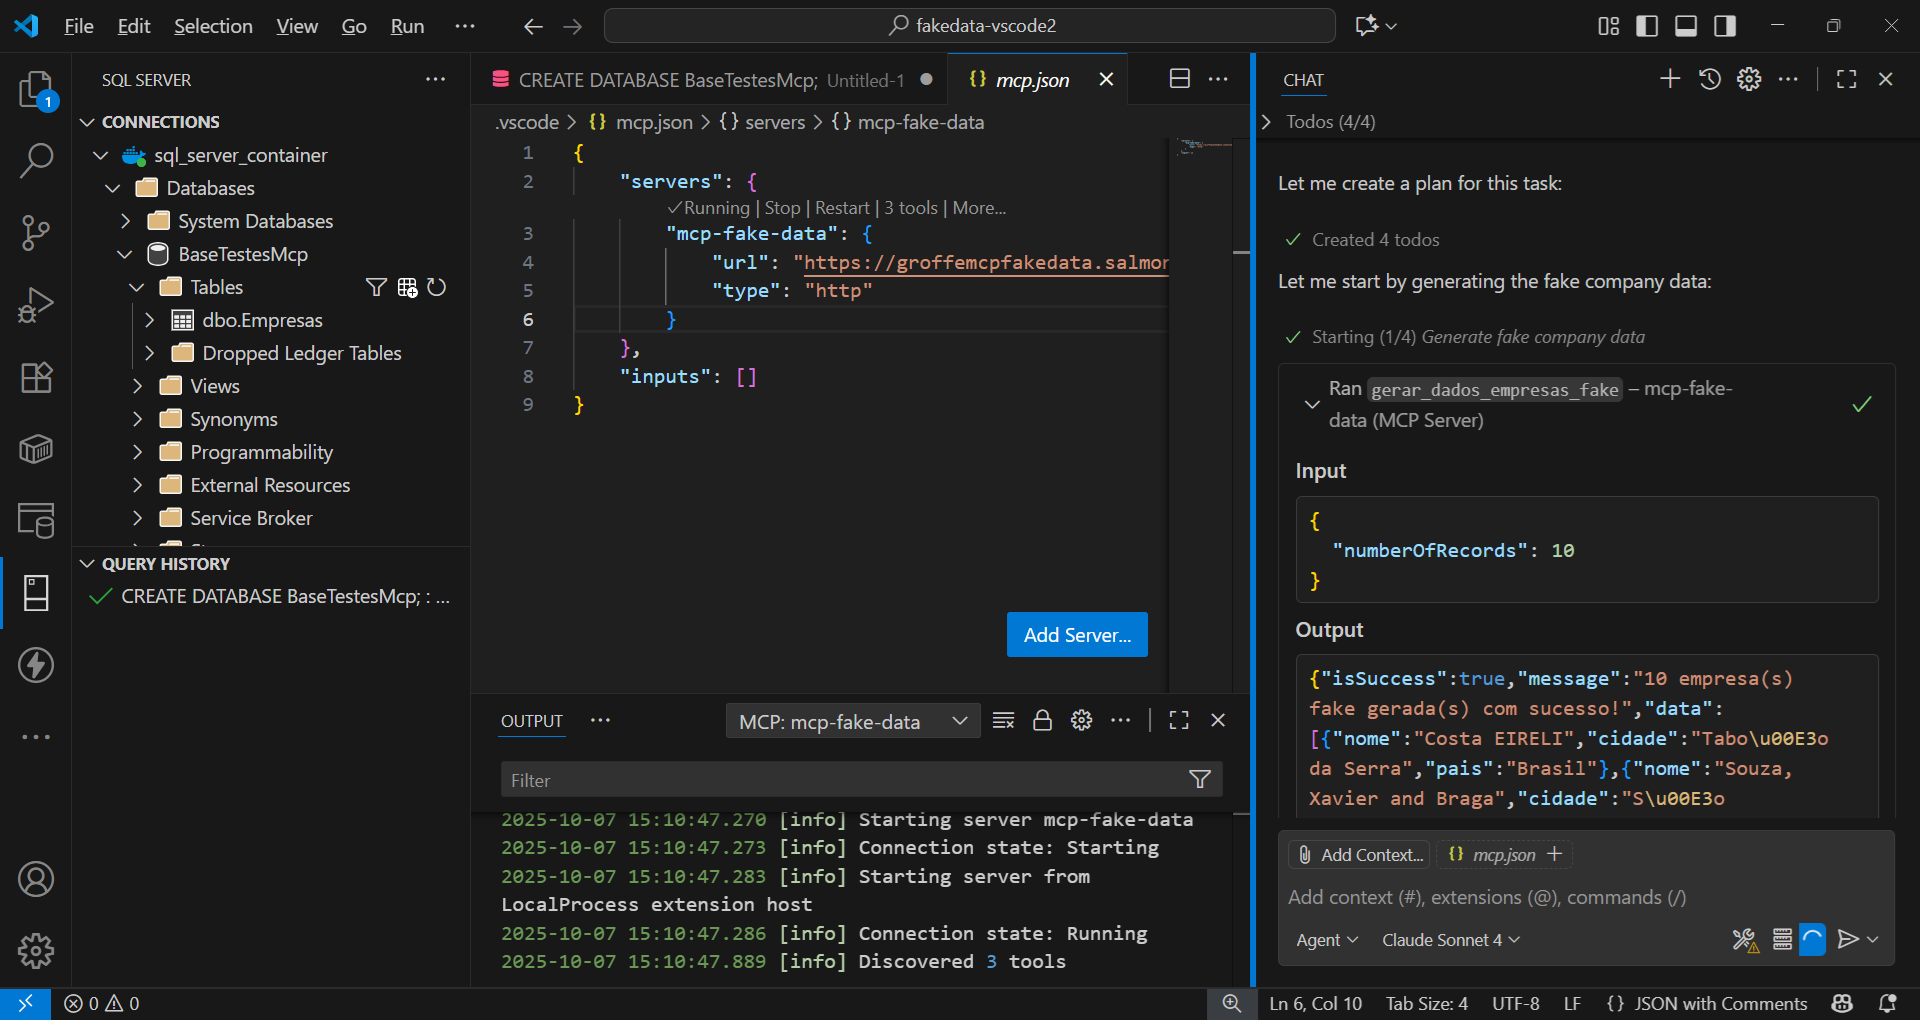
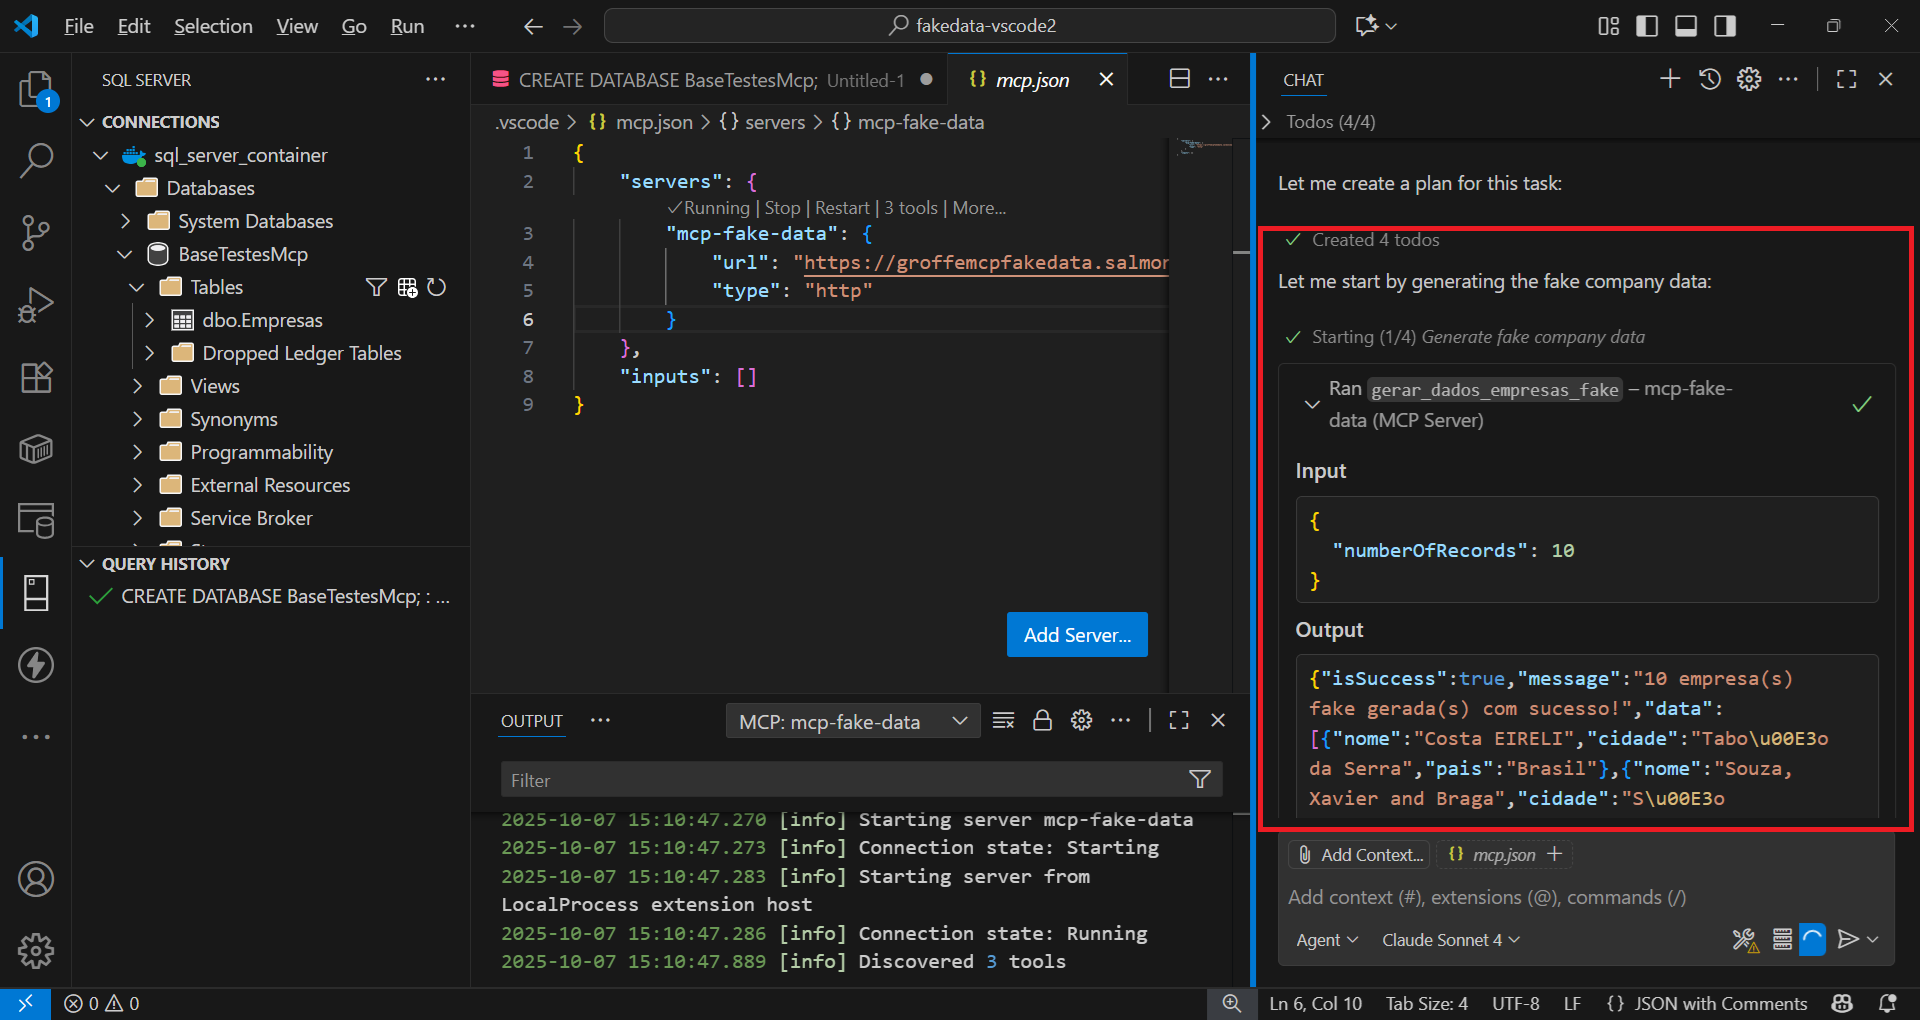
Ajustes doc

Changed region(s): [[0.6562, 0.7902, 1.0, 0.8206], [0.6562, 0.2127, 1.0, 0.2431]]

diff --git a/README.md b/README.md
@@ -30,3 +30,7 @@ Constarão 3 tools entre as opções de MCP disponíveis:
 Ao realizar uma pergunta no **chat do GitHub Copilot** em modo **Agent**:
 
 ![Pergunta via chat](img/vscode-mcp-02.png)
+
+Tool do MCP sendo invocada:
+
+![Tool do MCP](img/vscode-mcp-03.png)
